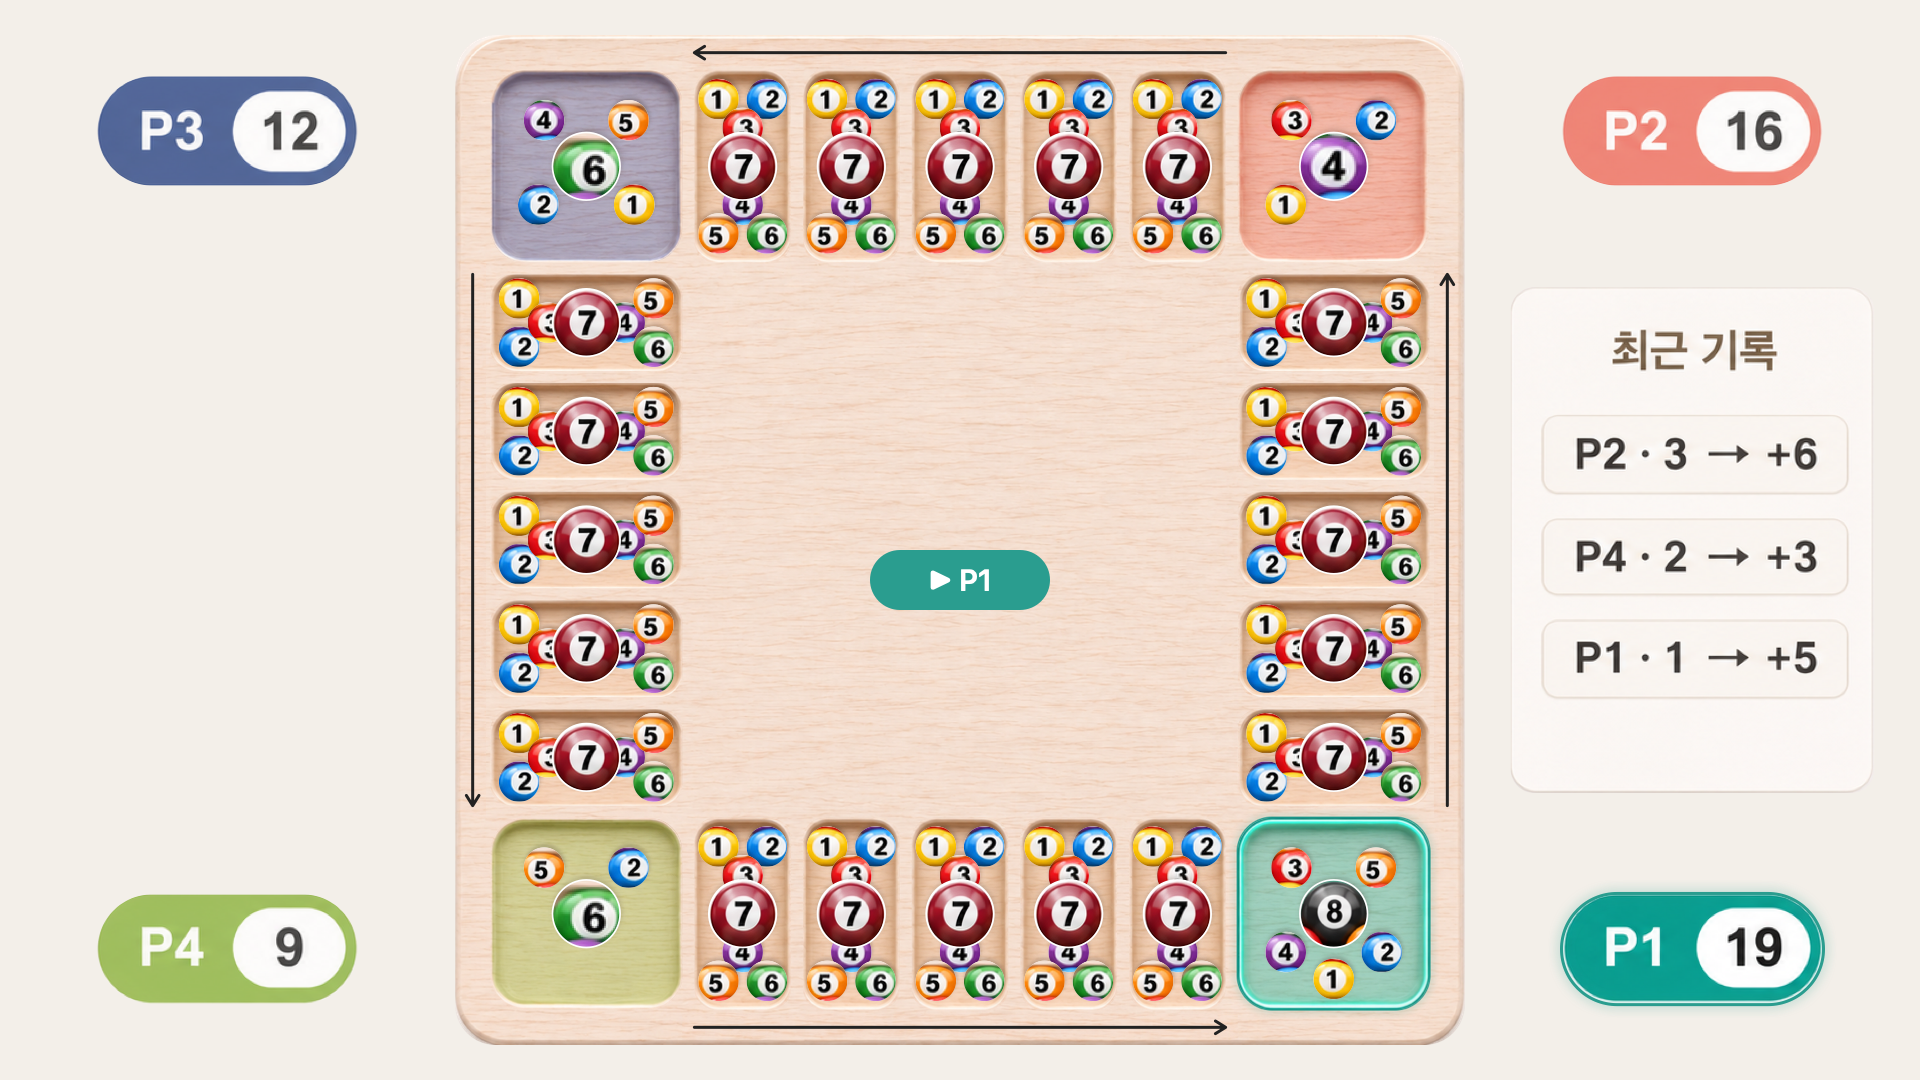
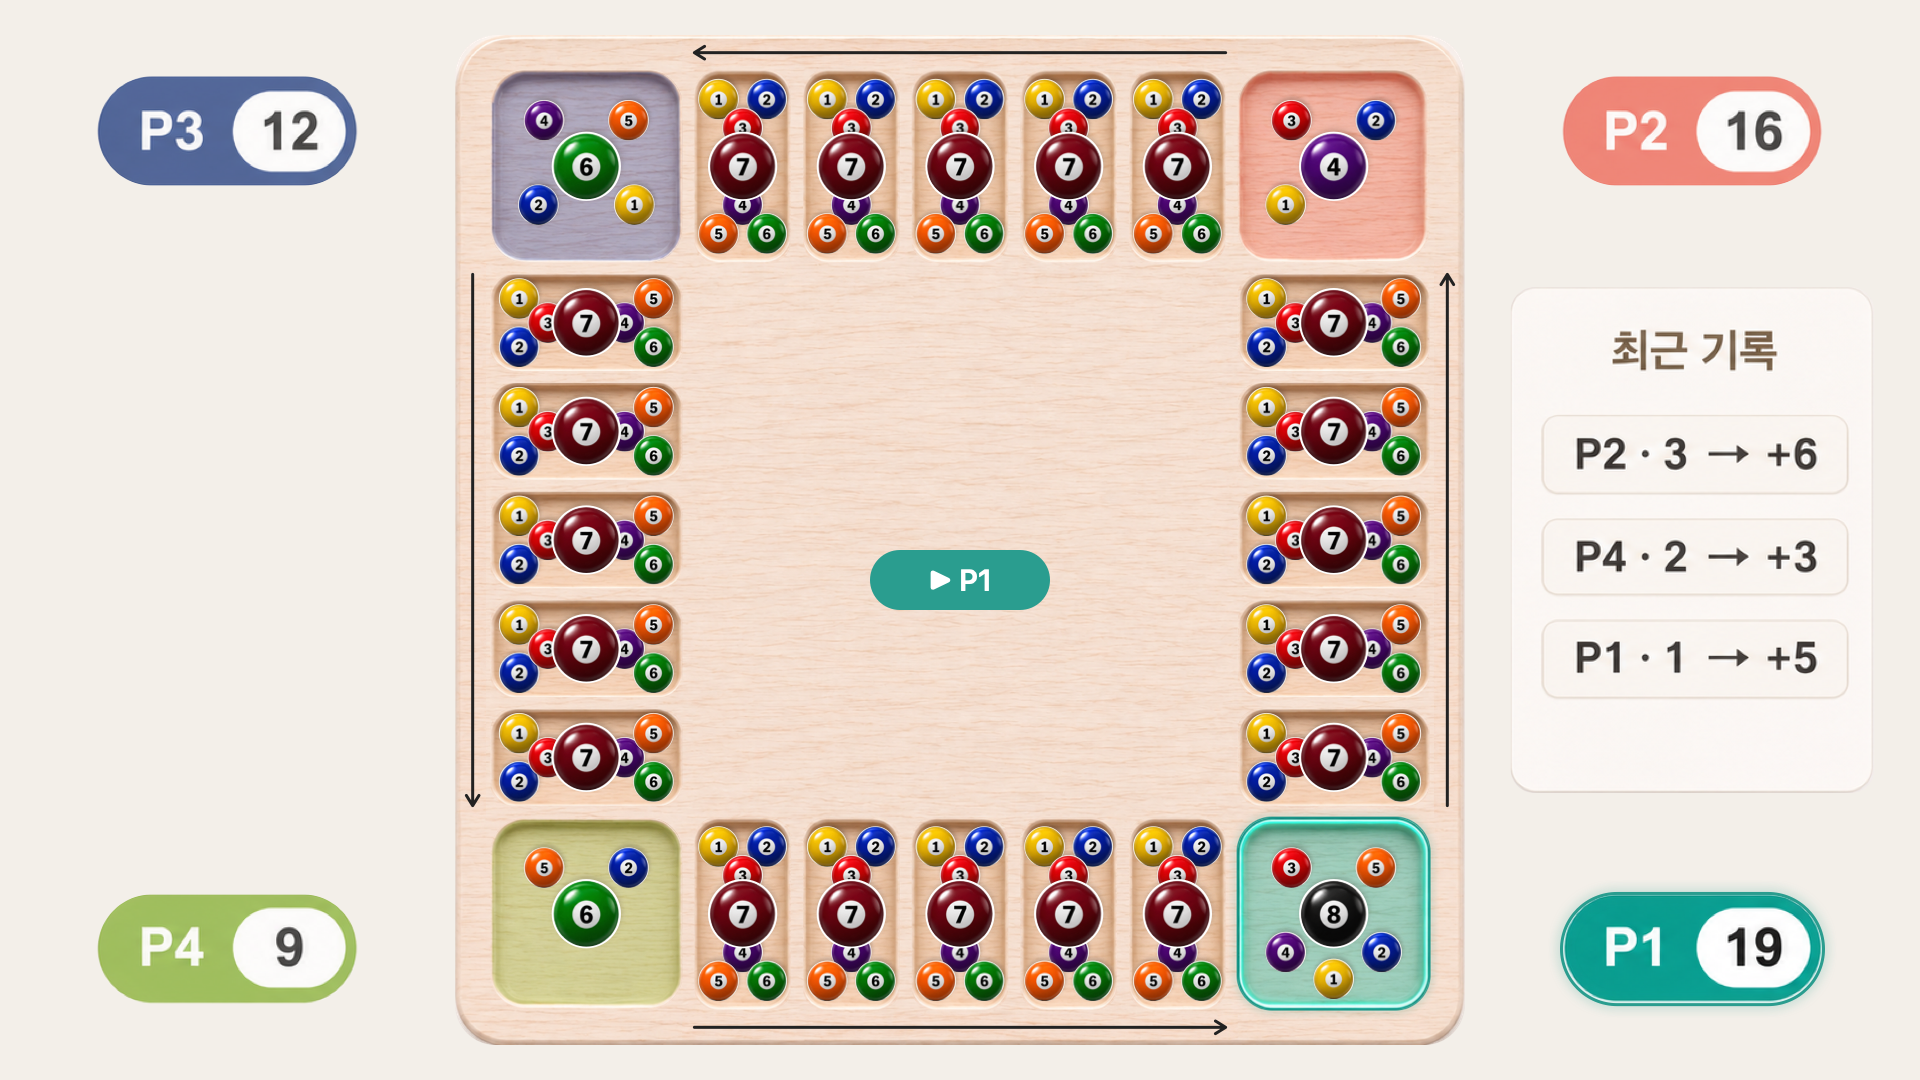
design: 시안 5단계 최종본과 Codex 기록

diff --git a/design/mockups/RESULT5.md b/design/mockups/RESULT5.md
@@ -1,0 +1,129 @@
+# 시안 5단계 결과
+
+기준: [BRIEF.md](../BRIEF.md)의 ‘시안 5단계’. 각각 같은 이름의 v2 PNG를 편집 기준으로 사용했다. 제작일: 2026-11-07.
+
+## 제작·검증 방식
+
+내장 image_gen 도구로 네 시안의 변경안을 만들고, 빈 홈과 개별 당구공 자산을 추가 생성했다. v2 이미지 위에 변경 영역만 조립해, 이미지 생성 과정에서 생길 수 있는 배경·배치 변경을 보존 영역에 반영하지 않았다. 기존 v2 파일은 유지했다.
+
+화살표는 각 변 하나씩 #222222의 가는 긴 선과 분명한 화살촉으로 배치했다. 4인 보드·20개 홈·저장고·배지 좌표는 v2의 도면 좌표를 재사용했다. 최고 번호 공 지름은 칸 폭의 70%, 다른 공은 42%로 조립했다. 태블릿에서는 각각 95.0264px / 57.01584px, 모니터에서는 67.5892px / 40.55352px다. 최고 번호 공에 흰 테두리를 두고 다른 공은 긴 축을 따라 정돈했다.
+
+변경 허용 영역은 화살표가 있는 테두리, 2인의 지정 저장고·회전 점수 밑줄, 4인의 홈·저장고 내부와 배지 강조 영역이다. 네 최종 PNG를 v2와 비교해 이 영역 밖의 픽셀 차이가 모두 0임을 확인했다. 자세한 수치는 [검증 기록](stage5-assets/verification.json), 범위와 공 지름은 [변경 영역 기록](stage5-assets/change-regions.json)에 있다. 해상도도 v2와 같다.
+
+Chrome 실행, 텔레그램 등 별도 외부 전송, git 커밋은 하지 않았다.
+
+## 스마트폰 P1 차례
+
+[phone-p1-turn-v3.png](phone-p1-turn-v3.png) · 1080×2340 PNG.
+
+아래 저장고를 왼쪽 공·오른쪽 점수로 바꿔 위 저장고와 점대칭이 되게 했다.
+위 저장고와 12칸 상태, 안전 여백을 유지하고, 화면 각 변에 길고 또렷한 반시계 방향 화살표를 배치했다.
+
+사용 프롬프트: G1. 실제 생성 결과에서 지정된 저장고·공 자산을 사용하고 나머지는 v2 위에 배치했다.
+
+## 2인 가로
+
+[2p-landscape-v3.png](2p-landscape-v3.png) · 1600×900 PNG.
+
+오른쪽 저장고는 위 점수·아래 공으로 바꾸고 기존 청록 활성 틀을 유지했다.
+왼쪽 저장고의 회전 점수에는 밑줄을 추가했으며, 여섯 칸을 따라 긴 검정 진행 방향 표시를 넣었다.
+
+사용 프롬프트: G2. 실제 생성 결과에서 지정된 저장고·공 자산을 사용하고 나머지는 v2 위에 배치했다.
+
+## 4인 태블릿
+
+[4p-tablet-v3.png](4p-tablet-v3.png) · 2048×1536 PNG.
+
+도면 배치는 유지하고 공을 칸 폭의 70%·42% 비율로 키워 최고 번호가 먼저 읽히게 했다.
+활성 P1의 저장고와 외부 배지가 함께 빛나고, 다른 배지는 약하게 흐려진다. 회전 배지·앉은 방향 쉐브론·중앙 화살표는 기존 위치와 방향을 유지했다.
+
+사용 프롬프트: G3, G5, G6. 실제 생성 결과에서 지정된 저장고·공 자산을 사용하고 나머지는 v2 위에 배치했다.
+
+## 4인 모니터
+
+[4p-monitor-v3.png](4p-monitor-v3.png) · 1920×1080 PNG.
+
+태블릿과 같은 비율로 공을 키우고 P1의 저장고·배지에 활성 표시를 함께 적용했다.
+모든 글자는 정방향이며 중앙 차례 표시와 최근 기록 패널을 유지했다. 테두리는 변마다 긴 검정 화살표 하나로 바꿨다.
+
+사용 프롬프트: G4, G5, G6. 실제 생성 결과에서 지정된 저장고·공 자산을 사용하고 나머지는 v2 위에 배치했다.
+
+## 실제 사용 프롬프트
+
+### G1. 스마트폰 편집
+
+입력: phone-p1-turn-v2.png.
+
+```text
+Use case: precise-object-edit
+Edit ONLY the changes listed below in this exact v2 mockup. Preserve camera, canvas composition, pale white oak grain, lighting, background, board outline, pit geometry and positions, all game state/counts/colors/numbers, UI positions and type, and every unlisted detail. This is a restrained iteration of this exact image, not a redesign.
+Common change: replace ALL faint short border progress arrows with EXACTLY ONE LONG BLACK (#222222) arrow PER SIDE, FOUR arrows total, thin crisp shaft and unmistakable arrowhead, counterclockwise on screen: BOTTOM pointsRIGHT, RIGHT pointsUP, TOP pointsLEFT, LEFT pointsDOWN. Each arrow spans the entire row of pits on its side. Keep arrows in the WOOD OUTER BORDER MARGIN, not through pits or stores, and remove former short arrows. No extra arrow segments.
+
+Output phone-p1-turn-v3.png,1080x2340portrait. Long rightUP and leftDOWN arrows extend alongside all SIX pitrows; topLEFT and bottomRIGHT span boardwidth in end-border margins. Keep dynamicisland/homeindicator andsafeareas.
+ONLY other change: swap compartments INSIDE BOTTOM current-player store so LEFT70% is BALL CHAMBER containing the SAME glossy blue2,red3,yellow1 balls, RIGHT30% is SCORE PANEL with upright19. Keep same enclosing roundedstore shape andTEALglow. TOPstore unchanged: LEFT score12 RIGHTballchamber purple4orange5green6. Two stores now have point-symmetric division. Keep all12roundpits and theirballs exactly unchanged.
+```
+
+### G2. 2인 가로 편집
+
+입력: 2p-landscape-v2.png.
+
+```text
+Use case: precise-object-edit
+Edit ONLY the changes listed below in this exact v2 mockup. Preserve camera, canvas composition, pale white oak grain, lighting, background, board outline, pit geometry and positions, all game state/counts/colors/numbers, UI positions and type, and every unlisted detail. This is a restrained iteration of this exact image, not a redesign.
+Common change: replace ALL faint short border progress arrows with EXACTLY ONE LONG BLACK (#222222) arrow PER SIDE, FOUR arrows total, thin crisp shaft and unmistakable arrowhead, counterclockwise on screen: BOTTOM pointsRIGHT, RIGHT pointsUP, TOP pointsLEFT, LEFT pointsDOWN. Each arrow spans the entire row of pits on its side. Keep arrows in the WOOD OUTER BORDER MARGIN, not through pits or stores, and remove former short arrows. No extra arrow segments.
+
+Output2p-landscape-v3.png1600x900. Long topLEFT andbottomRIGHT arrow spans all SIXplayingpits between endstores; vertical arrows use narrow outerboardends.
+ONLY other change: swap compartments INSIDE RIGHT current-player store: TOP30% SCORE PANEL showing upright12, BOTTOM70% BALLCHAMBER with exactly SAME existing storeballs, enclosingframe&tealglow preserved. LEFT opponentstore remains TOPballchamber/BOTTOMscorepanel with rotated180degree12; add short6/9-disambiguation UNDERLINE below that rotated score in its own readingorientation (underline rotates180withdigits). Keep everyplayingpit andpoolballunchanged.
+```
+
+### G3. 4인 태블릿 편집
+
+입력: 4p-tablet-v2.png.
+
+```text
+Use case: precise-object-edit
+Edit ONLY the changes listed below in this exact v2 mockup. Preserve camera, canvas composition, pale white oak grain, lighting, background, board outline, pit geometry and positions, all game state/counts/colors/numbers, UI positions and type, and every unlisted detail. This is a restrained iteration of this exact image, not a redesign.
+Common change: replace ALL faint short border progress arrows with EXACTLY ONE LONG BLACK (#222222) arrow PER SIDE, FOUR arrows total, thin crisp shaft and unmistakable arrowhead, counterclockwise on screen: BOTTOM pointsRIGHT, RIGHT pointsUP, TOP pointsLEFT, LEFT pointsDOWN. Each arrow spans the entire row of pits on its side. Keep arrows in the WOOD OUTER BORDER MARGIN, not through pits or stores, and remove former short arrows. No extra arrow segments.
+
+Output4p-tablet-v3.png2048x1536. Long arrows alongallFIVEpitsoneachedge. All20roundedrectangularpits,4tintedball-onlystores, small55%centralspace, rotatedexteriorbadges, seatingchevrons andcenterDOWNarrow stayexactlyintheirv2positions.
+ONLY otherchanges:
+1. ENLARGE balls dramatically INSIDE existingpitboundaries. Each pit's highestMAROON7 at CENTER has DIAMETER70% of pit's SHORTWIDTH (about95pxon135.752pxpitwidth), withthinWHITEouterring. All6otherballs1yellow2blue3red4purple5orange6green have diameter42%shortwidth(about57px). Arrange alongLONGaxis above/belowthecentral7 forverticalpits andleft/rightforhorizontalpits, compactorderlytwocolumns, slightnaturaloverlapallowed, keepallnumberbadgesupright. DoNOT enlargepitstomakeroom. Sameballcounts, noextras.
+2. Enlarge STOREballs to correspondingsame scale relativeto pitwidth, keeping theircurrentcounts/numbers andwoodtints. Storeframesarenotlarger.
+3. CurrentP1bottomrightSTORE stillglowsTEAL. ALSO make P1exteriorbottomrightSCOREBADGE glowwitha cleanTEALhalo aroundits existingpilloutline. P2,P3,P4 exteriorbadges slightlymuted/dimmed, but legible, samerotations/positions/colors. PreserveP1down/P2right/P3up/P4leftseatingchevrons unchanged. Nootherscenechanges.
+```
+
+### G4. 4인 모니터 편집
+
+입력: 4p-monitor-v2.png.
+
+```text
+Use case: precise-object-edit
+Edit ONLY the changes listed below in this exact v2 mockup. Preserve camera, canvas composition, pale white oak grain, lighting, background, board outline, pit geometry and positions, all game state/counts/colors/numbers, UI positions and type, and every unlisted detail. This is a restrained iteration of this exact image, not a redesign.
+Common change: replace ALL faint short border progress arrows with EXACTLY ONE LONG BLACK (#222222) arrow PER SIDE, FOUR arrows total, thin crisp shaft and unmistakable arrowhead, counterclockwise on screen: BOTTOM pointsRIGHT, RIGHT pointsUP, TOP pointsLEFT, LEFT pointsDOWN. Each arrow spans the entire row of pits on its side. Keep arrows in the WOOD OUTER BORDER MARGIN, not through pits or stores, and remove former short arrows. No extra arrow segments.
+
+Output4p-monitor-v3.png1920x1080. LongarrowsspanallFIVEpitsoneachedge. Preserveexactv2squareboardposition1010pxside, all20roundedrectangularpits96.556x191.9px, fourtintedball-onlycornerstores,55%smallcenter, alluprightexteriorbadges, rightrecenthistorypanelandcenter'▶ P1'.
+ONLY otherchanges:
+1. ENLARGEballs in existingpits. HighestMAROON7 centerDIAMETER70%pitSHORTWIDTH(about67.6px),thinWHITEouterring. Others1yellow2blue3red4purple5orange6green DIAMETER42%shortwidth(about40.55px), arrangedabove/belowforverticalpits,left/rightforhorizontalpits,compacttwo-columnorder,slightnaturaloverlap,allnumberbadgesUPRIGHT. DoNOTchangepitdimensions, samecounts.
+2. EnlargeSTOREballs correspondingly, sameexistingcounts/numbers/colorsandstoretints, sameframes.
+3. P1bottomrightSTORE retainsTEALglow; ALSOglowingTEALoutlinearoundP1bottomrightexteriorSCOREBADGE. Otherthreeexteriorbadgesslightlydimmed/mutedbutlegible, allupright. No seatingchevrons inmonitor. Nothingelsechanges.
+```
+
+### G5. 공 크기 재배치용 빈 홈
+
+입력: 4단계 공통 보드 이미지. 최종 조립에서는 홈과 저장고 내부의 빈 질감만 사용.
+
+```text
+Use case: precise-object-edit
+Prepare a clean layer from this exactpaleoakboard. REMOVEALL numberedbilliardballs from ALL20roundedrectangularplayingpits and ALL4tintedcornerstores. Leave only EMPTYcarvedwoodenrecesses. Also remove all faint borderdirectionarrows fillingwithmatchingwoodgrain. Preserveexact1420squareboardgeometry,20rectpitdimensions/positions, fourcornerstoresize&transparentwoodtints, P1bottomrighttealglow, lighting, background, emptycenter andallwoodgrain. No newballs, text, circles, scoresorpanels. This assetwill receive thepreviouslygeneratedbilliardballcrops at exact70%and42%pitwidth, so EMPTYrecessesareessential.
+```
+
+### G6. 깨끗한 개별 당구공 자산
+
+입력 이미지 없음. 투명 배경 자산 시트로 생성한 후 각 공을 잘라 지정 지름으로 배치.
+
+```text
+Use case: ui-mockup
+Generate ONE transparent spriteasset sheet with EIGHT SEPARATE isolated glossy numbered POOL BILLIARD BALLS, arranged in a precise4column x2row grid, generous empty transparentgaparoundeveryball. No touching oroverlap. Allballs same220pixeldiameter, canvas1200x600landscape. Cellcenters top(150,150),(450,150),(750,150),(1050,150), bottom(150,450),(450,450),(750,450),(1050,450). Inreadingorder 1YELLOW,2BLUE,3RED,4PURPLE /5ORANGE,6GREEN,7MAROON,8BLACK. Each sphere has ONE whitecirclenumberbadge centeredatfront with crispBLACKdigit, subtlebrightupperleftspecularhighlight and naturalroundedshading. Straighttopview sphereicons, premiumrealisticglossmatchingpaleoakKalahmockup. Clean silhouettes. NO WHITE STRIPES: these1through8 areSOLIDcolors. No outershadowbeyondsmallsoftambientcontactshadow, no background, noborders, nolabelsoutsideballs, noletters, noextraobjects. One singleimageasset sheet. Needcleantransparentspacebetweenallspritesforcropping.
+```
+
+

diff --git a/design/BRIEF.md b/design/BRIEF.md
@@ -136,3 +136,13 @@
 - 저장고 안 공도 같은 크기 비율로 크게.
 - **지금 차례 표시**: 차례인 사람의 저장고 테두리 + **바깥 플레이어 배지도 함께 빛남**(배지 테두리 글로우, 다른 배지는 약간 흐리게). 모니터·태블릿 모두.
 - `4p-tablet-v3.png` (2048×1536), `4p-monitor-v3.png` (1920×1080). 나머지는 v2와 동일.
+
+---
+
+# 실제 사용 에셋 1: 보드 나무 질감
+
+- 파일: `assets/oak-tile.jpg` — 1024×1024, **이음새 없이 반복되는(seamless, tileable)** 화이트 오크 판재 질감. 정면에서 본 평평한 판, 조명 그라데이션·그림자·비네팅 없음(균일한 밝기).
+- 색감: `mockups/2p-landscape-c.png` 보드와 같은 아주 밝은 화이트 오크(대략 #EADFCD 근처), 무광, 가는 나뭇결이 은은하게. 옹이·얼룩·글자 없음. 결 방향은 가로.
+- 반복 확인용 `assets/oak-tile-preview.jpg`: 같은 타일을 2×2로 이어 붙인 2048×2048 이미지(이음새가 보이지 않는지 확인용).
+- 결과 기록: `assets/RESULT.md` (프롬프트, 이음새 처리 방법).
+- 용량: oak-tile.jpg는 300KB 이하로(JPEG 품질 조정).
